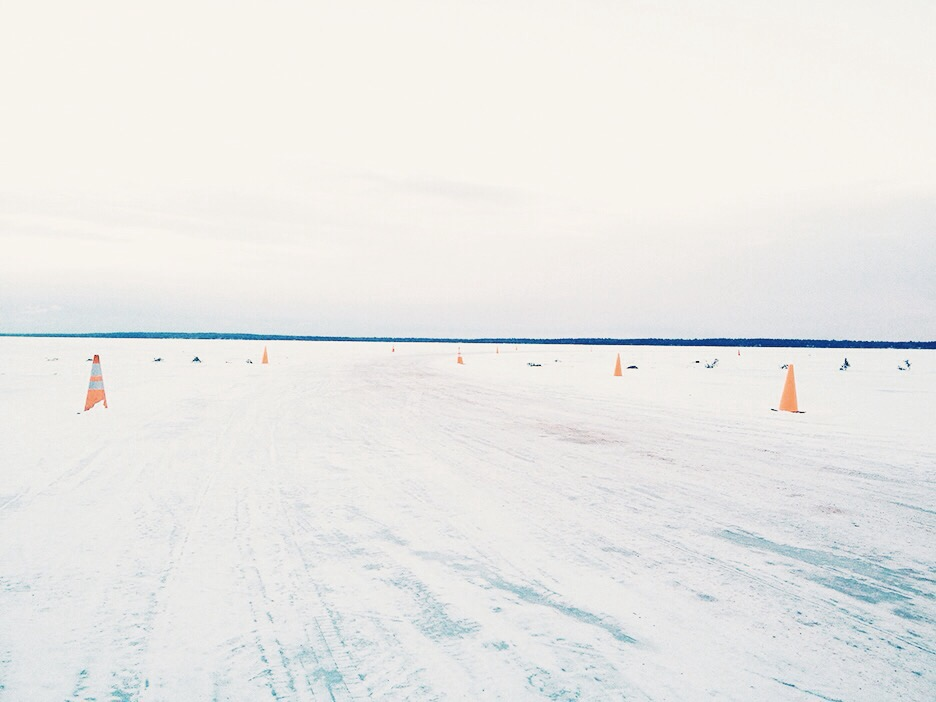
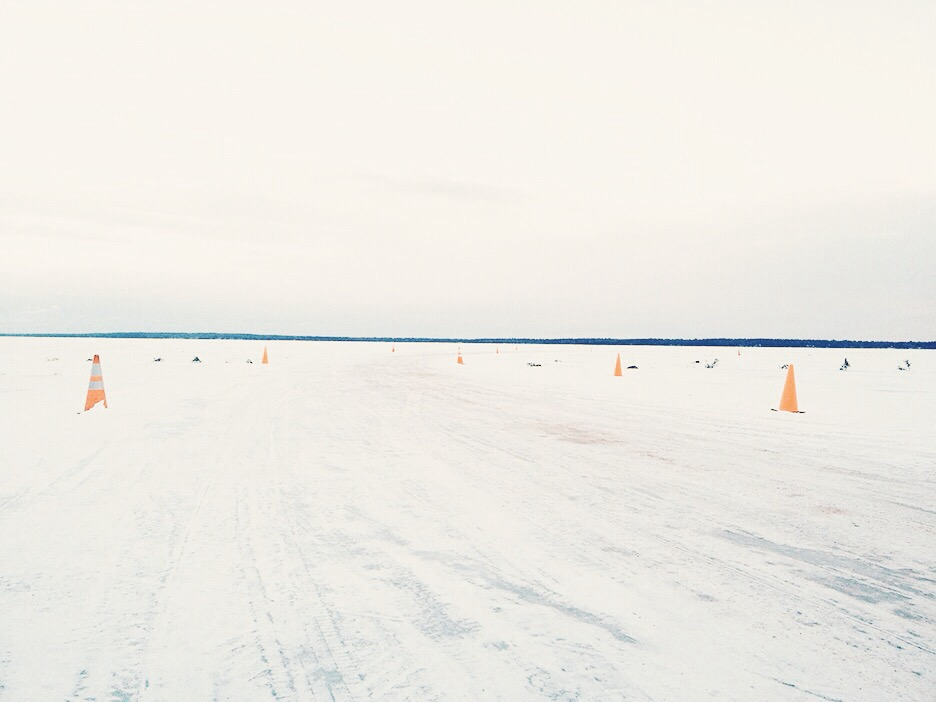
ch

diff --git a/ice/index.html b/ice/index.html
@@ -50,8 +50,8 @@ permalink: /ice/
   </div>
   
   <div class="photoset-grid-basic da-all" data-layout="2">
-    <img src="{{site.url}}/img/iceroad17.jpg" class="group1" alt="lake_landscape" />
-    <img src="{{site.url}}/img/iceroad18.jpg" class="group2" alt="night_landscape" />
+    <img src="{{site.url}}/img/iceroad14.jpg" class="group1" alt="lake_landscape" />
+    <img src="{{site.url}}/img/iceroad11.jpg" class="group2" alt="night_landscape" />
   </div>
 
 
